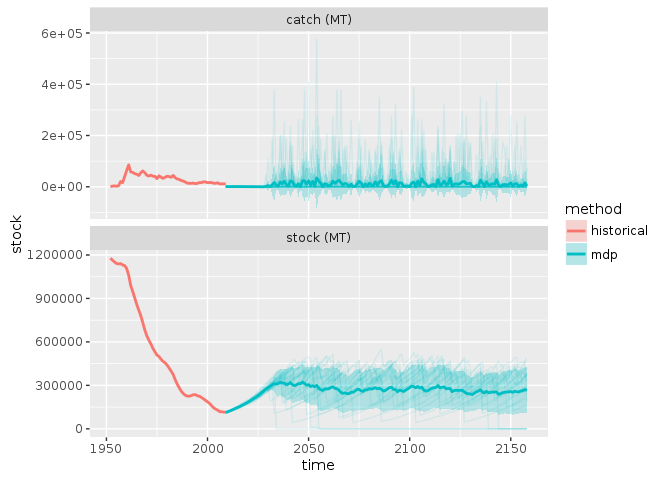
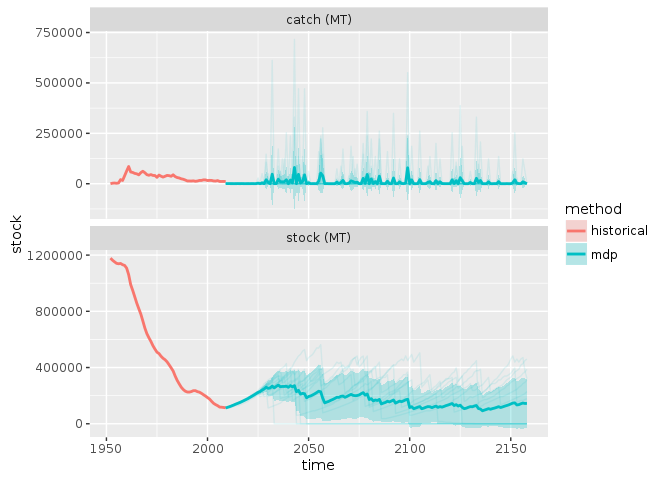
0.4 sigma_m

diff --git a/inst/notebook/mdp-tuna.md b/inst/notebook/mdp-tuna.md
@@ -11,15 +11,14 @@ library("ggplot2")
 library("tidyr")
 library("purrr")
 library("dplyr")
-#knitr::opts_chunk$set(cache = TRUE)
+knitr::opts_chunk$set(cache = TRUE)
 ```
 
 
 ```r
-## choose the state/action/obs space
 #states <- seq(0,1.2, length=200)  
-
 #states <- c(seq(0,0.12, length=30), seq(0.12, 1.2, length=200))   # Vector of actions: harvest
+
 p <- 2
 states <- seq(0, 1.2^(1/p), len=150)^p # Vector of all possible states
 
@@ -30,7 +29,7 @@ r <- 0.05699246
 sigma_g <- 0.01720091
 discount <- 0.99
 
-vars <- expand.grid(r = seq(0.025, 0.2, by =0.025), sigma_m = 0.3)
+vars <- expand.grid(r = seq(0.025, 0.2, by =0.025), sigma_m = 0.4)
 fixed <- data.frame(model = "ricker", sigma_g = sigma_g, discount = discount, K = K, C = NA)
 models <- data.frame(vars, fixed)
 
